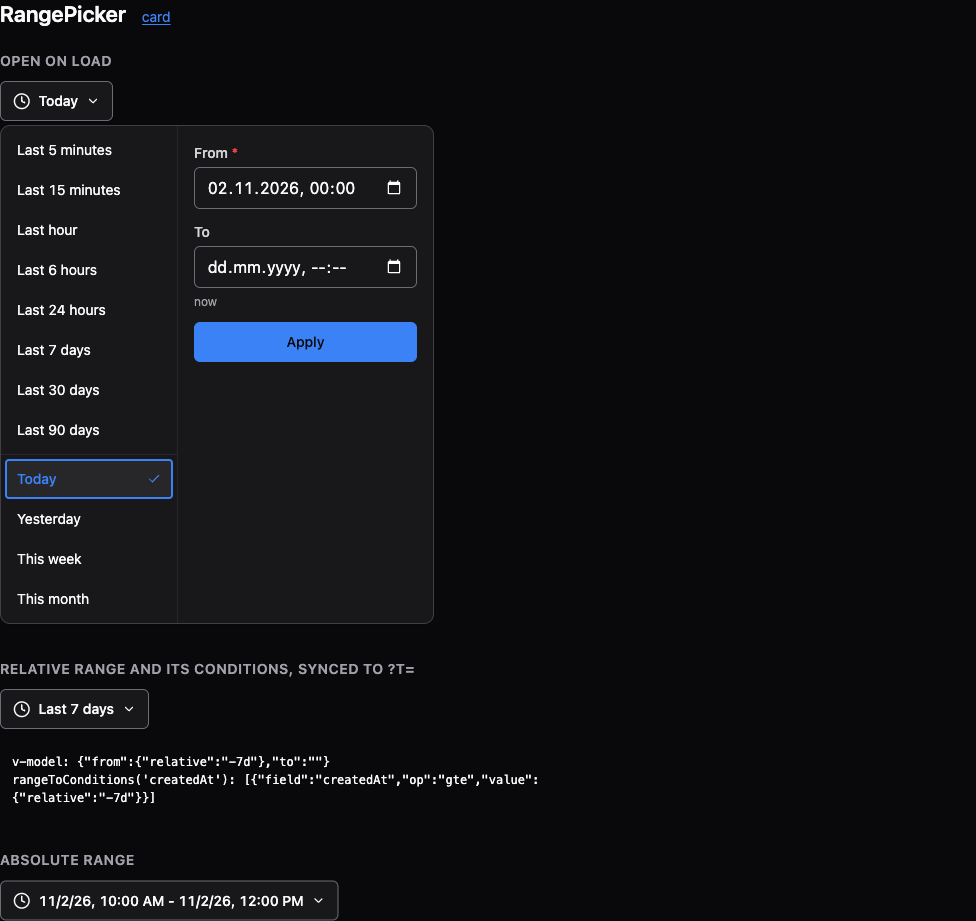
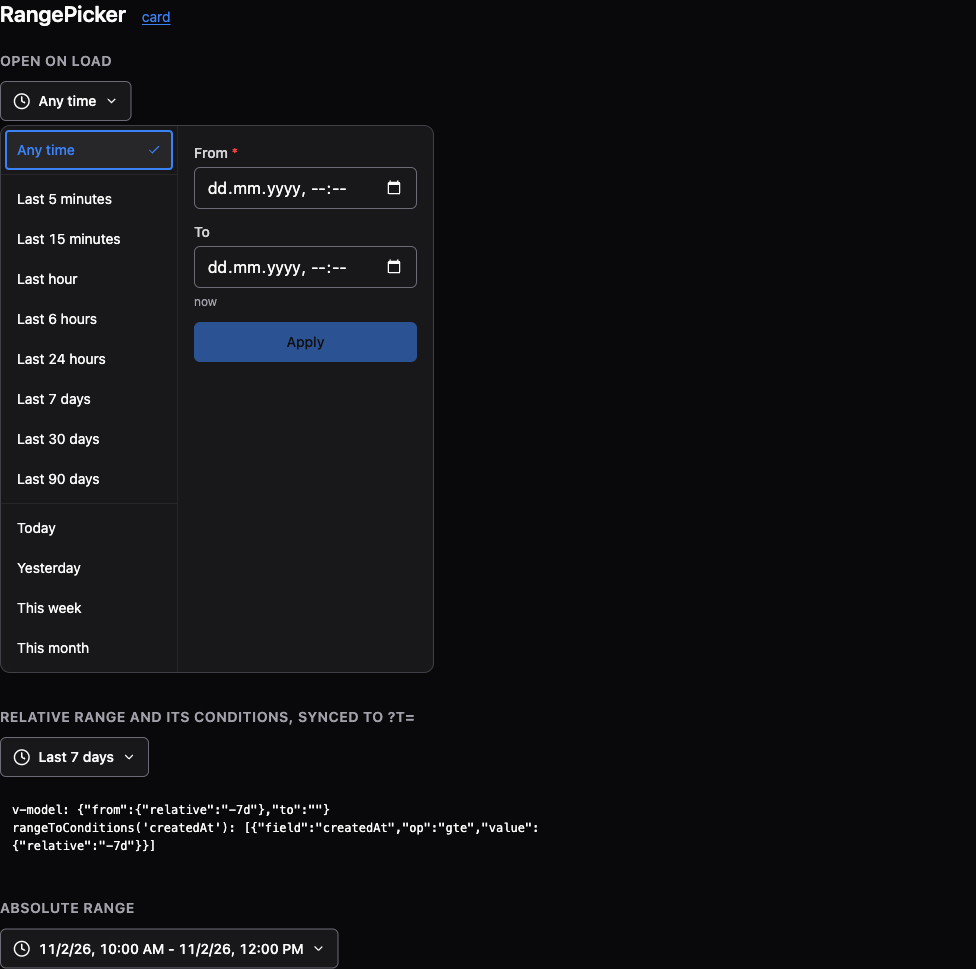
RangePicker: an Any time state

diff --git a/ui/blocks/RangePicker/RangePicker.vue b/ui/blocks/RangePicker/RangePicker.vue
@@ -10,11 +10,11 @@ import Field from '../../Field/Field.vue'
 import Icon from '../../Icon/Icon.vue'
 import Input from '../../Input/Input.vue'
 import Popover from '../../Popover/Popover.vue'
-import { calendarQuick, calendarRange, fromLocalInput, fromQuery, labelOf, relativeQuick, relativeRange, sameRange, toLocalInput, toQuery, type TimeRange } from './range'
+import { anyTime, calendarQuick, calendarRange, fromLocalInput, fromQuery, labelOf, relativeQuick, relativeRange, sameRange, toLocalInput, toQuery, type TimeRange } from './range'
 
 const props = defineProps<{
   modelValue: TimeRange
-  /** Read the range from `?t=` and write it back (`?t=-7d`, `?t=today`, `?t=<from>..<to>`). */
+  /** Read the range from `?t=` and write it back (`?t=-7d`, `?t=today`, `?t=<from>..<to>`; any time is no `t`). */
   syncQuery?: boolean
 }>()
 const emit = defineEmits<{ 'update:modelValue': [range: TimeRange] }>()
@@ -24,8 +24,9 @@ const popover = ref<InstanceType<typeof Popover> | null>(null)
 const list = ref<HTMLElement | null>(null)
 const label = computed(() => labelOf(props.modelValue, t, locale.value))
 const quick = computed(() => [
-  ...relativeQuick.map(relative => ({ key: relative, range: relativeRange(relative) })),
-  ...calendarQuick.map(key => ({ key, range: { from: '', to: '', calendar: key } satisfies TimeRange })),
+  { key: 'any', group: 'any', range: anyTime },
+  ...relativeQuick.map(relative => ({ key: relative, group: 'relative', range: relativeRange(relative) })),
+  ...calendarQuick.map(key => ({ key, group: 'calendar', range: { from: '', to: '', calendar: key } satisfies TimeRange })),
 ].map(item => ({ ...item, label: labelOf(item.range, t, locale.value), current: isCurrent(item.range) })))
 const from = ref('')
 const to = ref('')
@@ -69,7 +70,11 @@ if (props.syncQuery) {
   const route = useRoute()
   const router = useRouter()
   // By path, so a catch-all route param is not re-encoded (a/b to a%2Fb).
-  const write = (range: TimeRange): void => { void router.replace({ path: route.path, hash: route.hash, query: { ...route.query, t: toQuery(range) } }) }
+  const write = (range: TimeRange): void => {
+    const { t: _, ...query } = route.query
+    const text = toQuery(range)
+    void router.replace({ path: route.path, hash: route.hash, query: text === '' ? query : { ...query, t: text } })
+  }
   // The URL wins on load when it names a range; a URL without one means the initial v-model.
   const initial = fromQuery(route.query['t'])
   if (initial) emit('update:modelValue', initial)
@@ -78,7 +83,7 @@ if (props.syncQuery) {
     if (range && toQuery(range) !== toQuery(props.modelValue)) emit('update:modelValue', range)
   })
   watch(() => props.modelValue, (range) => {
-    if (toQuery(range) !== route.query['t']) write(range)
+    if (toQuery(range) !== (route.query['t'] ?? '')) write(range)
   })
 }
 </script>
@@ -94,7 +99,7 @@ if (props.syncQuery) {
     <div class="ui-range-picker">
       <div ref="list" class="ui-range-picker__quick" role="menu" :aria-label="t('ui.timeRange')" @keydown="onKeydown">
         <template v-for="(item, index) in quick" :key="item.key">
-          <div v-if="index === relativeQuick.length" role="separator" class="ui-range-picker__separator" />
+          <div v-if="index > 0 && item.group !== quick[index - 1]?.group" role="separator" class="ui-range-picker__separator" />
           <button
             type="button"
             role="menuitemradio"

diff --git a/ui/blocks/RangePicker/range.test.ts b/ui/blocks/RangePicker/range.test.ts
@@ -1,11 +1,11 @@
 import { describe, expect, test } from 'bun:test'
-import { calendarRange, fromLocalInput, instantOf, fromQuery, labelOf, rangeToConditions, relativeRange, sameRange, toLocalInput, toQuery, type Translate } from './range'
+import { anyTime, calendarRange, fromLocalInput, instantOf, fromQuery, labelOf, rangeToConditions, relativeRange, sameRange, toLocalInput, toQuery, type Translate } from './range'
 
 const t: Translate = (key, named, plural) => {
   const words: Record<string, [string, string]> = { 'ui.lastHours': ['Last hour', 'Last {n} hours'], 'ui.lastDays': ['Last day', 'Last {n} days'], 'ui.lastMinutes': ['Last minute', 'Last {n} minutes'], 'ui.lastWeeks': ['Last week', 'Last {n} weeks'] }
   const pair = words[key]
   if (pair) return (plural === 1 ? pair[0] : pair[1]).replace('{n}', String(named['n']))
-  return ({ 'ui.today': 'Today', 'ui.yesterday': 'Yesterday', 'ui.now': 'now' })[key] ?? key
+  return ({ 'ui.today': 'Today', 'ui.yesterday': 'Yesterday', 'ui.now': 'now', 'ui.anyTime': 'Any time' })[key] ?? key
 }
 // 02.11.2026 10:30 local time, a Monday.
 const now = new Date(2026, 10, 2, 10, 30)
@@ -15,6 +15,11 @@ describe('labelOf', () => {
     expect(labelOf(relativeRange('-7d'), t, 'en')).toBe('Last 7 days')
     expect(labelOf(relativeRange('-1h'), t, 'en')).toBe('Last hour')
     expect(labelOf(relativeRange('-15m'), t, 'en')).toBe('Last 15 minutes')
+  })
+
+  test('no range is any time, an open absolute range ends at now', () => {
+    expect(labelOf(anyTime, t, 'en')).toBe('Any time')
+    expect(labelOf({ from: new Date(2026, 10, 2, 10).toISOString(), to: '' }, t, 'de')).toBe('02.11.26, 10:00 - now')
   })
 
   test('calendar ranges by name, compound and absolute ranges as two ends', () => {
@@ -36,7 +41,8 @@ describe('calendarRange', () => {
 })
 
 describe('rangeToConditions', () => {
-  test('gte from, lte to, now is no bound', () => {
+  test('gte from, lte to, now is no bound, any time is none', () => {
+    expect(rangeToConditions('createdAt', anyTime)).toEqual([])
     expect(rangeToConditions('createdAt', relativeRange('-7d'))).toEqual([{ field: 'createdAt', op: 'gte', value: { relative: '-7d' } }])
     expect(rangeToConditions('createdAt', { from: 'a', to: 'b' })).toEqual([{ field: 'createdAt', op: 'gte', value: 'a' }, { field: 'createdAt', op: 'lte', value: 'b' }])
   })
@@ -49,6 +55,12 @@ describe('URL query', () => {
     }
     expect(toQuery(relativeRange('-7d'))).toBe('-7d')
     expect(toQuery(calendarRange('today', now))).toBe('today')
+  })
+
+  test('any time is no t: an empty query value, and no t names no range', () => {
+    expect(toQuery(anyTime)).toBe('')
+    expect(fromQuery(undefined)).toBeUndefined()
+    expect(fromQuery('')).toBeUndefined()
   })
 
   test('garbage is no range', () => {

diff --git a/ui/blocks/RangePicker/range.ts b/ui/blocks/RangePicker/range.ts
@@ -25,6 +25,13 @@ export type Translate = (key: string, named: Record<string, unknown>, plural: nu
 export const relativeQuick = ['-5m', '-15m', '-1h', '-6h', '-24h', '-7d', '-30d', '-90d'] as const
 export const calendarQuick: readonly CalendarKey[] = ['today', 'yesterday', 'thisWeek', 'thisMonth']
 
+/** No range: no conditions, no `t` in the URL; a list's usual default. */
+export const anyTime: TimeRange = { from: '', to: '' }
+
+export function isAnyTime(range: TimeRange): boolean {
+  return !range.calendar && range.from === '' && range.to === ''
+}
+
 export function relativeRange(relative: string): TimeRange {
   return { from: { relative }, to: '' }
 }
@@ -51,9 +58,10 @@ function timeLabel(value: TimeValue, t: Translate, locale: string): string {
   return typeof value === 'string' ? new Intl.DateTimeFormat(locale, { dateStyle: 'short', timeStyle: 'short' }).format(new Date(value)) : value.relative
 }
 
-/** "Last 7 days", "Today", or "02.11.26, 10:00 - 02.11.26, 12:00" in the locale. */
+/** "Any time", "Last 7 days", "Today", or "02.11.26, 10:00 - 02.11.26, 12:00" in the locale. */
 export function labelOf(range: TimeRange, t: Translate, locale: string): string {
   if (range.calendar) return t(`ui.${range.calendar}`, {}, 1)
+  if (isAnyTime(range)) return t('ui.anyTime', {}, 1)
   const match = typeof range.from === 'string' ? null : /^-(\d+)([mhdw])$/.exec(range.from.relative)
   if (match && range.to === '') {
     const n = Number(match[1])
@@ -70,16 +78,17 @@ export function rangeToConditions(field: string, range: TimeRange): TimeConditio
   return conditions
 }
 
-/** `?t=-7d`, `?t=today`, `?t=<from>..<to>` (an empty side is now). */
+/** `?t=-7d`, `?t=today`, `?t=<from>..<to>` (an empty side is now); '' for any time, which is no `t`. */
 export function toQuery(range: TimeRange): string {
   if (range.calendar) return range.calendar
+  if (isAnyTime(range)) return ''
   const side = (value: TimeValue): string => (typeof value === 'string' ? value : value.relative)
   return range.to === '' && typeof range.from !== 'string' ? range.from.relative : `${side(range.from)}..${side(range.to)}`
 }
 
 const relativePattern = /^[+-](\d+[smhdw])+$/
 
-/** The range of a `t` query value, undefined when it is none. */
+/** The range of a `t` query value; undefined when it names none (no `t` at all is any time or the page's default). */
 export function fromQuery(text: unknown, now: Date = new Date()): TimeRange | undefined {
   if (typeof text !== 'string' || text === '') return undefined
   if ((calendarQuick as readonly string[]).includes(text)) return calendarRange(text as CalendarKey, now)

diff --git a/ui/blocks/RangePicker/RangePicker.demo.vue b/ui/blocks/RangePicker/RangePicker.demo.vue
@@ -1,7 +1,7 @@
 <script setup lang="ts">
 import { computed, onMounted, ref } from 'vue'
 import RangePicker from './RangePicker.vue'
-import { calendarRange, rangeToConditions, relativeRange, type TimeRange } from './range'
+import { anyTime, rangeToConditions, relativeRange, type TimeRange } from './range'
 
 const range = ref<TimeRange>(relativeRange('-7d'))
 const conditions = computed(() => rangeToConditions('createdAt', range.value))
@@ -10,7 +10,7 @@ const absolute = ref<TimeRange>({ from: new Date(2026, 10, 2, 10).toISOString(),
 
 // Opened on load so the screenshot shows the quick ranges and the form.
 const preview = ref<InstanceType<typeof RangePicker> | null>(null)
-const open = ref<TimeRange>(calendarRange('today'))
+const open = ref<TimeRange>({ ...anyTime })
 onMounted(() => setTimeout(() => preview.value?.open(), 300))
 </script>
 
@@ -33,5 +33,5 @@ rangeToConditions('createdAt'): {{ JSON.stringify(conditions) }}</pre>
 
 <style scoped>
 .json { max-width: 40rem; margin-top: var(--ui-space-3); padding: var(--ui-space-3); white-space: pre-wrap; word-break: break-word; background: var(--ui-sunk); border-radius: var(--ui-radius-control); font-size: var(--ui-text-xs); }
-.preview { min-height: 36rem; }
+.preview { min-height: 39rem; }
 </style>

diff --git a/ui/messages.ts b/ui/messages.ts
@@ -108,6 +108,7 @@ export const messages = {
       details: 'Details',
       confirmStep: 'This step changes data. Press Go, or click it yourself.',
       planFailed: 'The assistant could not find the next step on this page.',
+      anyTime: 'Any time',
     },
   },
   de: {
@@ -216,6 +217,7 @@ export const messages = {
       details: 'Details',
       confirmStep: 'Dieser Schritt ändert Daten. Drück Los oder klick selbst.',
       planFailed: 'Der Assistent findet den nächsten Schritt auf dieser Seite nicht.',
+      anyTime: 'Beliebiger Zeitraum',
     },
   },
 } as const

diff --git a/ui/blocks/RangePicker/RangePicker.md b/ui/blocks/RangePicker/RangePicker.md
@@ -9,9 +9,10 @@ status: ready
 
 # RangePicker
 
-A Grafana-style time range: a button showing the range ("Last 7 days", "Today", "02.11.26, 10:00 -
-02.11.26, 12:00") opens quick ranges (last 5 minutes to last 90 days; today, yesterday, this week,
-this month) and an absolute form with two native date-time inputs. The value is livewire time
+A Grafana-style time range: a button showing the range ("Any time", "Last 7 days", "Today",
+"02.11.26, 10:00 - 02.11.26, 12:00") opens quick ranges (any time; last 5 minutes to last 90
+days; today, yesterday, this week, this month) and an absolute form with two native date-time
+inputs. The value is livewire time
 values, so a page ANDs `rangeToConditions(field, range)` straight into its filter.
 
 ## Props
@@ -19,15 +20,17 @@ values, so a page ANDs `rangeToConditions(field, range)` straight into its filte
 | Prop | Type | Default | Notes |
 |------|------|---------|-------|
 | `modelValue` | `TimeRange` | required | v-model |
-| `syncQuery` | `boolean` | `false` | reads and writes `?t=-7d`, `?t=today`, `?t=<from>..<to>` (vue-router, replace) |
+| `syncQuery` | `boolean` | `false` | reads and writes `?t=-7d`, `?t=today`, `?t=<from>..<to>`; any time removes `t` (vue-router, replace) |
 
 `TimeRange` (from `range.ts`): `{ from: TimeValue; to: TimeValue; calendar? }`. A `TimeValue` is
 an RFC 3339 string, livewire's `{ relative: '-7d' }` (s, m, h, d, w), or `''` for now, which is no
-bound. `calendar` (`today`, `yesterday`, `thisWeek`, `thisMonth`) marks a calendar range, so its
+bound. `{ from: '', to: '' }` is any time (exported as `anyTime`): no conditions, no `t`, the
+usual default of a list. `calendar` (`today`, `yesterday`, `thisWeek`, `thisMonth`) marks a calendar range, so its
 label and URL stay "today" while `from` and `to` hold the instants computed when it was chosen.
 
 `range.ts` also exports `rangeToConditions(field, range)`, `labelOf(range, t, locale)`,
-`relativeRange('-7d')`, `calendarRange(key)`, `toQuery(range)` and `fromQuery(text)`.
+`anyTime`, `isAnyTime(range)`, `relativeRange('-7d')`, `calendarRange(key)`, `toQuery(range)`
+(`''` for any time) and `fromQuery(text)` (undefined without a `t`).
 
 ## Slots
 
@@ -48,20 +51,21 @@ None.
 The picker reads nothing; its value goes into the list's filter:
 
 ```ts
-const range = ref<TimeRange>(relativeRange('-7d'))
+const range = ref<TimeRange>({ ...anyTime })
 watchEffect(() => {
   list.filter.value = { where: { and: [...rangeToConditions('createdAt', range.value), ...facetConditions] } } as OrdersFilter
 })
 ```
 
-`rangeToConditions` returns `field >= from` and `field <= to`; a side that is now is left out.
+`rangeToConditions` returns `field >= from` and `field <= to`; a side that is now is left out,
+so any time yields no condition at all.
 A relative `from` stays relative on the wire: the server re-runs the read on its safety tick, so
 "last 15 minutes" keeps moving.
 
 ## Agent
 
 The trigger's name is "Time range: Last 7 days". Quick ranges are `menuitemradio` with
-`aria-checked` and `data-range` (`-7d`, `today`); the form's inputs are named `from` and `to`.
+`aria-checked` and `data-range` (`any`, `-7d`, `today`); the form's inputs are named `from` and `to`.
 An agent can set the v-model or `?t=` instead of clicking.
 
 ## Gotchas
@@ -71,6 +75,8 @@ An agent can set the v-model or `?t=` instead of clicking.
   the range is chosen again or the page reloads with `?t=today`.
 - The form edits local time (datetime-local) and emits UTC instants; an empty "To" is now.
 - With `syncQuery` the URL wins on load when it has `t`; without it the initial v-model holds and
-  is written only once the user picks a range.
+  is written only once the user picks a range. Any time is no `t`, so with a default other than
+  `anyTime` a reload after choosing any time comes back with the default; make `anyTime` the
+  default of a synced list.
 - Keyboard: arrows, Home and End move between the quick ranges, Tab moves into the form, Escape
   closes and focus returns to the trigger.
